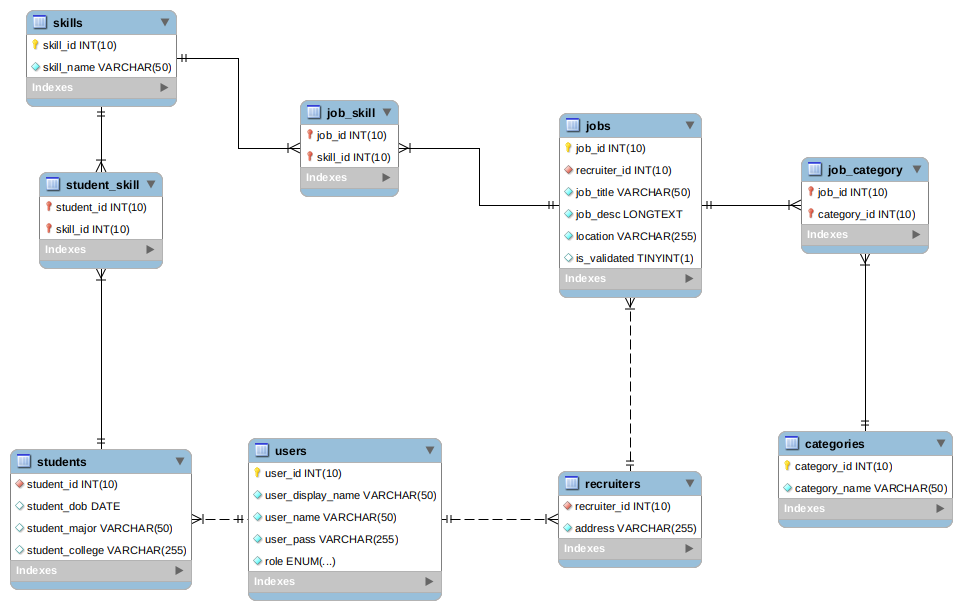
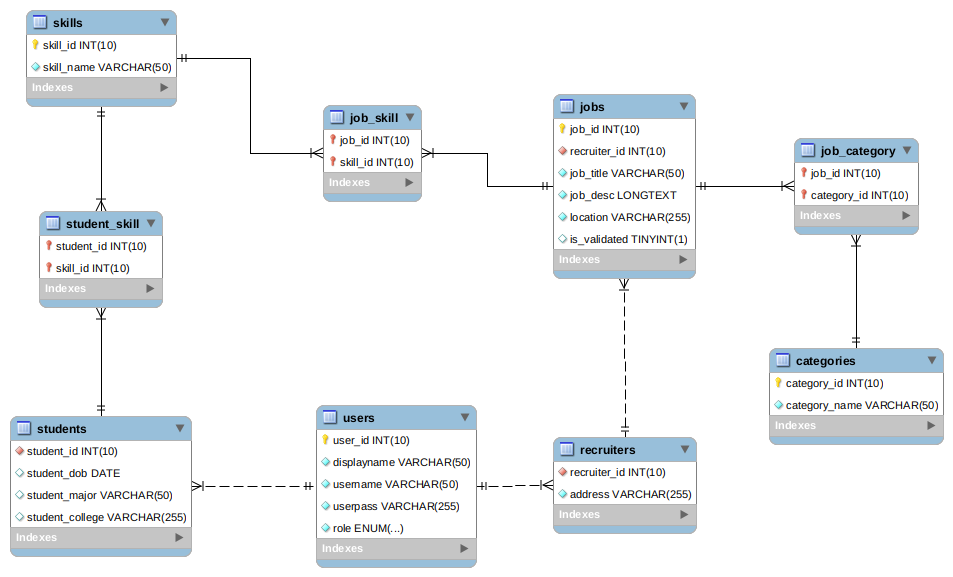
add authentication

diff --git a/src/user/UserService.js b/src/user/UserService.js
@@ -1,6 +1,39 @@
+const bcrypt = require('bcryptjs');
+const _ = require('lodash');
+
 const { User } = require('./User');
 
+function hashing(userpass) {
+  return new Promise((resolve, reject) => {
+    bcrypt.genSalt(10, (err, salt) => {
+      bcrypt.hash(userpass, salt, (errHash, hash) => {
+        if (errHash) return reject(errHash);
+        return resolve(hash);
+      });
+    });
+  });
+}
+
+function comparing(candidatePassword, hash) {
+  return new Promise((resolve, reject) => {
+    bcrypt.compare(candidatePassword, hash, (err, isMatch) => {
+      if (err) return reject(err);
+      return resolve(isMatch);
+    });
+  });
+}
+
 class UserService {
+  static async registerUser(user) {
+    try {
+      user.userpass = await hashing(user.userpass);
+      const recvUser = await User.query().insertAndFetch(user);
+      return recvUser;
+    } catch (err) {
+      throw err;
+    }
+  }
+
   static async getUserInfo(userId) {
     try {
       const user = new User();
@@ -9,6 +42,22 @@ class UserService {
       const listOfUsers = await User.query().where(user);
       const recvUser = listOfUsers[0];
       return recvUser;
+    } catch (err) {
+      throw err;
+    }
+  }
+
+  static async authenticateUser(user) {
+    try {
+      const listOfUsers = await User.query().where({ username: user.username });
+      if (_.isEmpty(listOfUsers)) {
+        return {
+          isMatch: undefined,
+        };
+      }
+      const recvUser = listOfUsers[0];
+      const isMatch = await comparing(user.userpass, recvUser.userpass);
+      return { isMatch, recvUser };
     } catch (err) {
       throw err;
     }

diff --git a/src/user/UserController.js b/src/user/UserController.js
@@ -1,0 +1,66 @@
+const jwt = require('jsonwebtoken');
+
+const { UserService } = require('./UserService');
+const { User } = require('./User');
+const keys = require('../../config/keys');
+
+exports.user_register_post = async (req, res) => {
+  try {
+    const {
+      displayname,
+      username,
+      userpass,
+      role,
+    } = req.body;
+
+    const user = {
+      displayname,
+      username,
+      userpass,
+      role,
+    };
+
+    await UserService.registerUser(user);
+    res.sendStatus(200);
+  } catch (err) {
+    res.sendStatus(409);
+  }
+};
+
+exports.user_info_get = async (req, res) => {
+  try {
+    const { userId } = req.params;
+    const recvUser = await UserService.getUserInfo(userId);
+    res.send(recvUser);
+  } catch (err) {
+    throw err;
+  }
+};
+
+exports.user_login_post = async (req, res) => {
+  try {
+    const { username, userpass } = req.body;
+    const user = new User();
+    user.username = username;
+    user.userpass = userpass;
+
+    const result = await UserService.authenticateUser(user);
+    if (result.isMatch) {
+      delete result.recvUser.userpass;
+      const payload = JSON.parse(JSON.stringify(result.recvUser));
+
+      const token = jwt.sign(payload, keys.secretOrKey, {
+        expiresIn: '7d',
+      });
+
+      res.send({
+        success: true,
+        token,
+      });
+    } else {
+      res.sendStatus(401);
+    }
+  } catch (err) {
+    throw err;
+  }
+};

diff --git a/app.js b/app.js
@@ -7,6 +7,7 @@ const bodyParser = require('body-parser');
 
 const indexRouter = require('./routes/index');
 const usersRouter = require('./routes/users');
+const usersApiRouter = require('./routes/users-api');
 const categoriesApiRouter = require('./routes/categories-api');
 const skillsApiRouter = require('./routes/skills-api');
 const jobsApiRouter = require('./routes/jobs-api');
@@ -31,6 +32,7 @@ app.use(bodyParser.urlencoded({ extended: false }));
 
 app.use('/', indexRouter);
 app.use('/users', usersRouter);
+app.use('/api/users', usersApiRouter);
 app.use('/api/categories', categoriesApiRouter);
 app.use('/api/skills', skillsApiRouter);
 app.use('/api/jobs', jobsApiRouter);

diff --git a/config/passport/passport-config.js b/config/passport/passport-config.js
@@ -1,0 +1,21 @@
+const JwtStrategy = require('passport-jwt').Strategy;
+const { ExtractJwt } = require('passport-jwt');
+const keys = require('../keys');
+const { UserService } = require('../../src/user/UserService');
+
+const opts = {};
+opts.jwtFromRequest = ExtractJwt.fromAuthHeaderAsBearerToken();
+opts.secretOrKey = keys.secretOrKey;
+
+module.exports = (passport) => {
+  passport.use(new JwtStrategy(opts, (jwt_payload, done) => {
+    UserService.getUserInfo(jwt_payload.userId)
+      .then((user) => {
+        if (user) {
+          return done(null, user);
+        }
+        return done(null, false);
+      })
+      .catch(err => console.log(err));
+  }));
+};

diff --git a/migrations/20181121135421_create_users.js b/migrations/20181121135421_create_users.js
@@ -4,22 +4,22 @@ exports.up = async (knex) => {
     table.increments('user_id');
 
     table
-      .string('user_display_name', 50)
+      .string('displayname', 50)
       .notNullable();
 
     table
-      .string('user_name', 50)
+      .string('username', 50)
       .notNullable();
-    table.unique('user_name');
+    table.unique('username');
 
     table
-      .string('user_pass')
+      .string('userpass')
       .notNullable();
 
     table
       .enu('role', ['admin', 'student', 'recruiter'])
       .notNullable();
-  })
+  });
 };
 
 exports.down = async (knex) => {

diff --git a/routes/users-api.js b/routes/users-api.js
@@ -3,6 +3,10 @@ const express = require('express');
 const router = express.Router();
 const UserController = require('../src/user/UserController');
 
-router.get('/info', UserController.user_info_get);
+router.get('/:userId/info', UserController.user_info_get);
+
+router.post('/register', UserController.user_register_post);
+
+router.post('/login', UserController.user_login_post);
 
 module.exports = router;

diff --git a/config/keys.js b/config/keys.js
@@ -1,0 +1,3 @@
+module.exports = {
+  secretOrKey: 'intern-hub-darknight-hackathon',
+};
